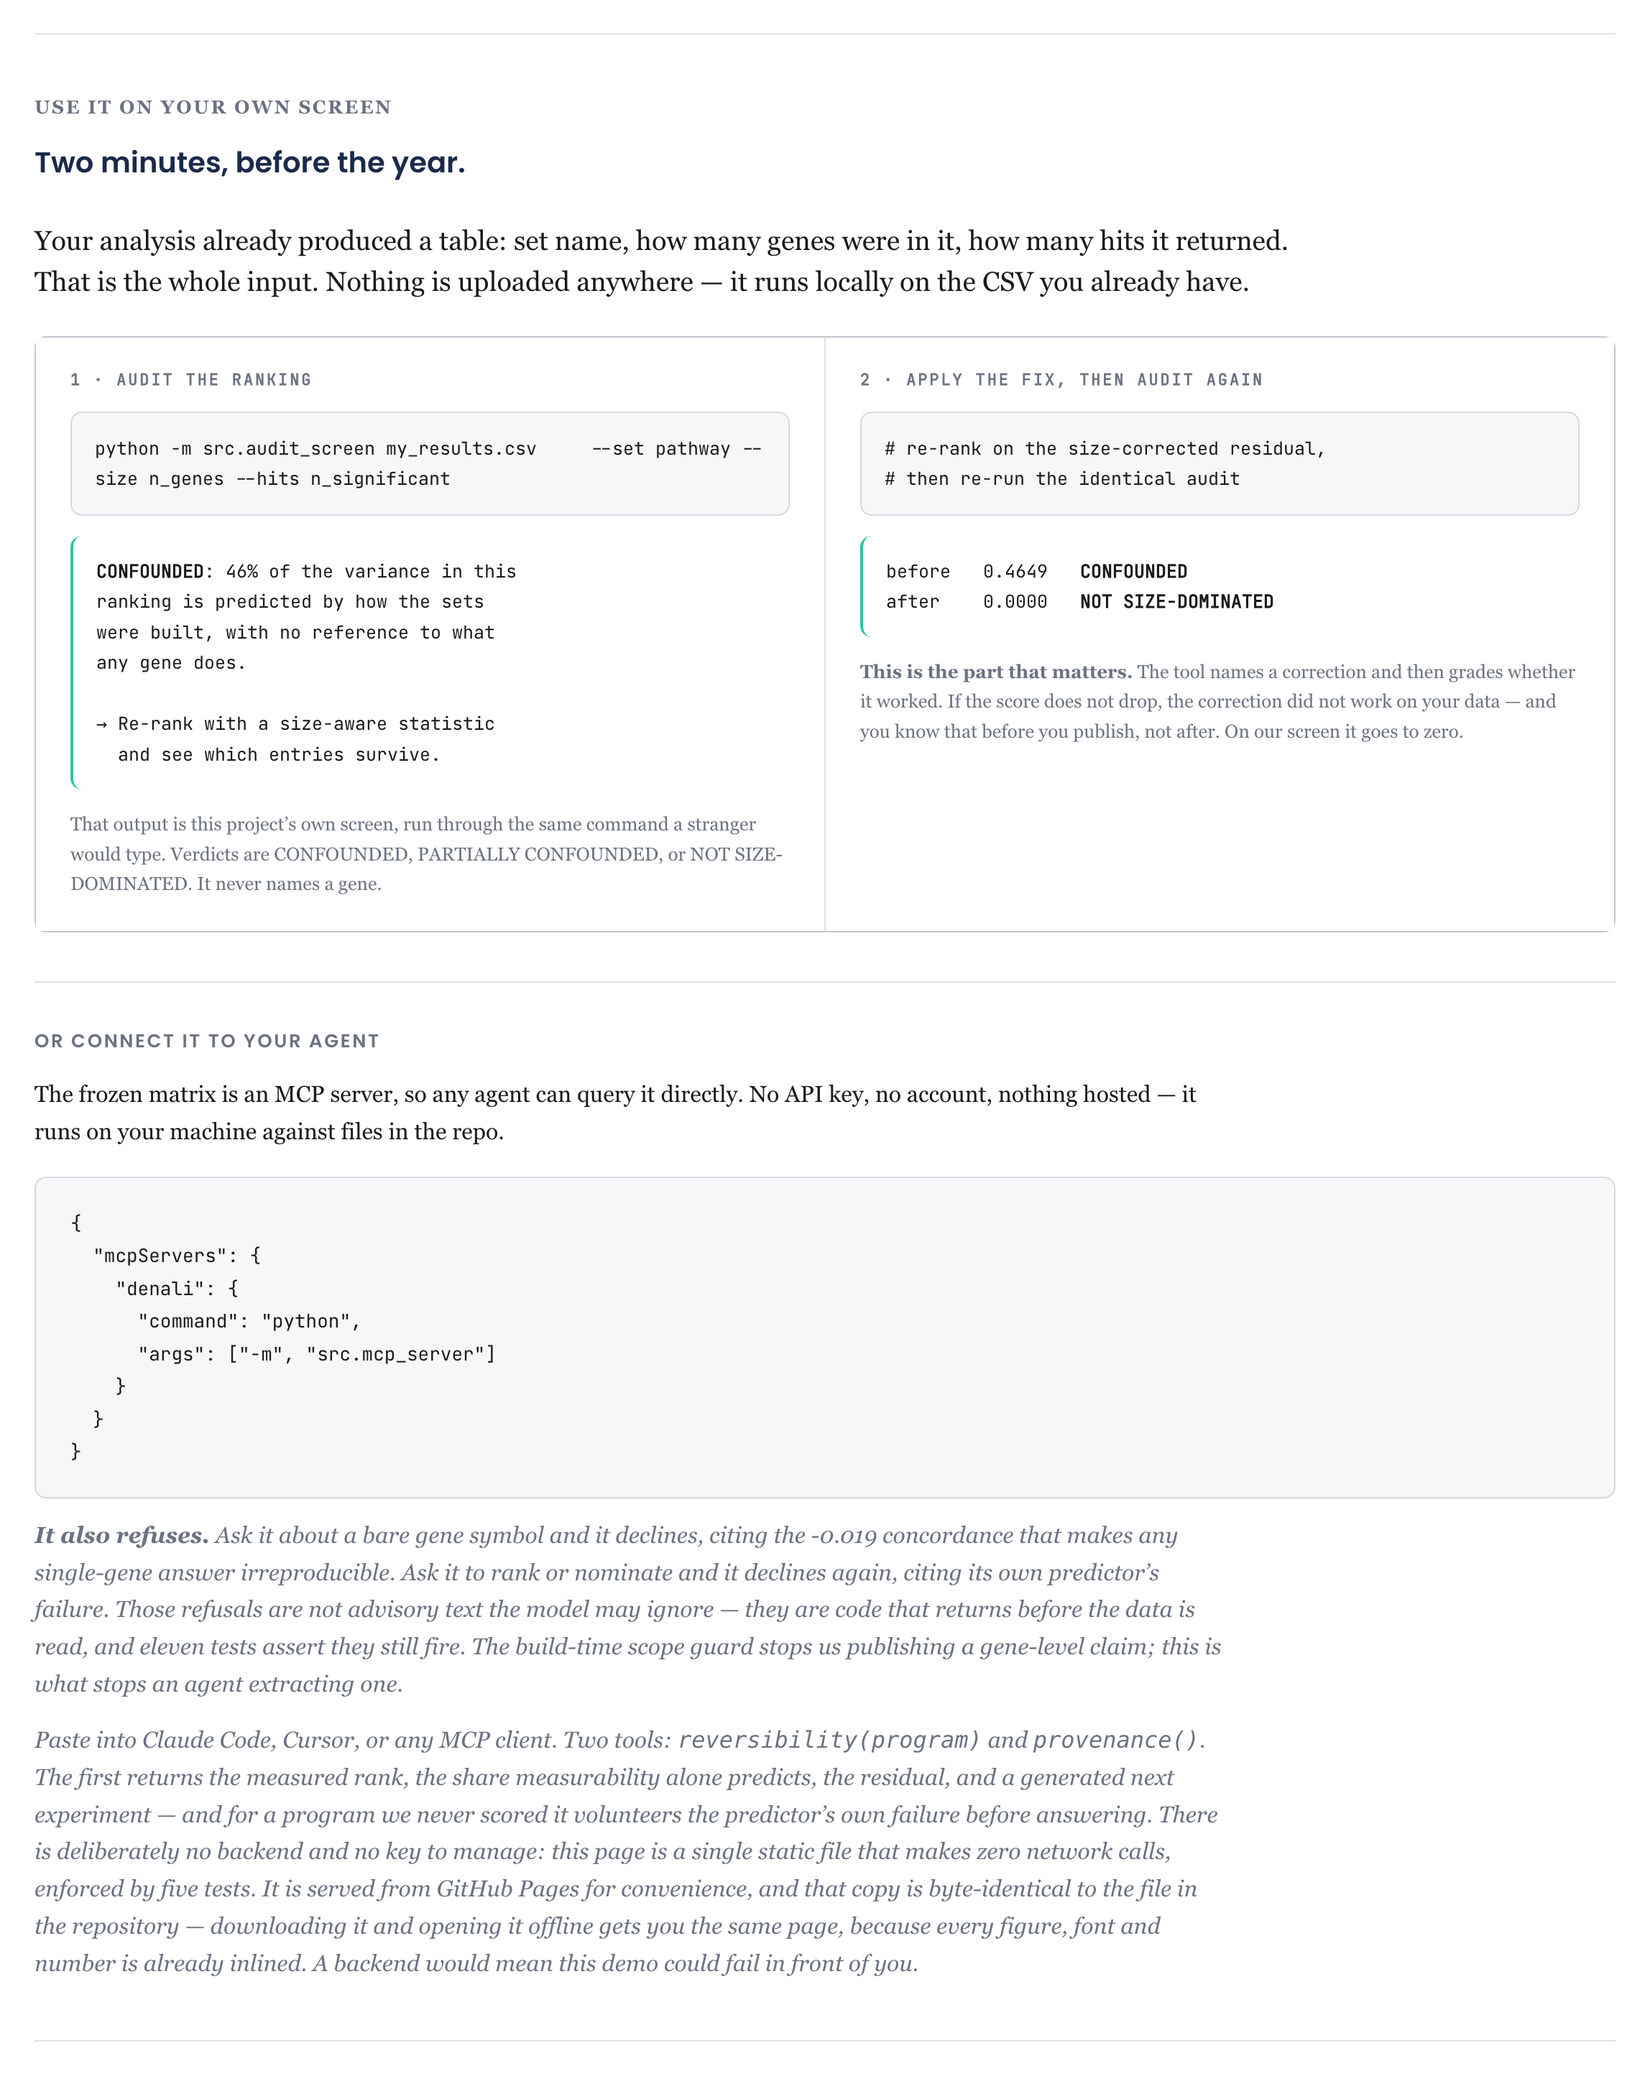
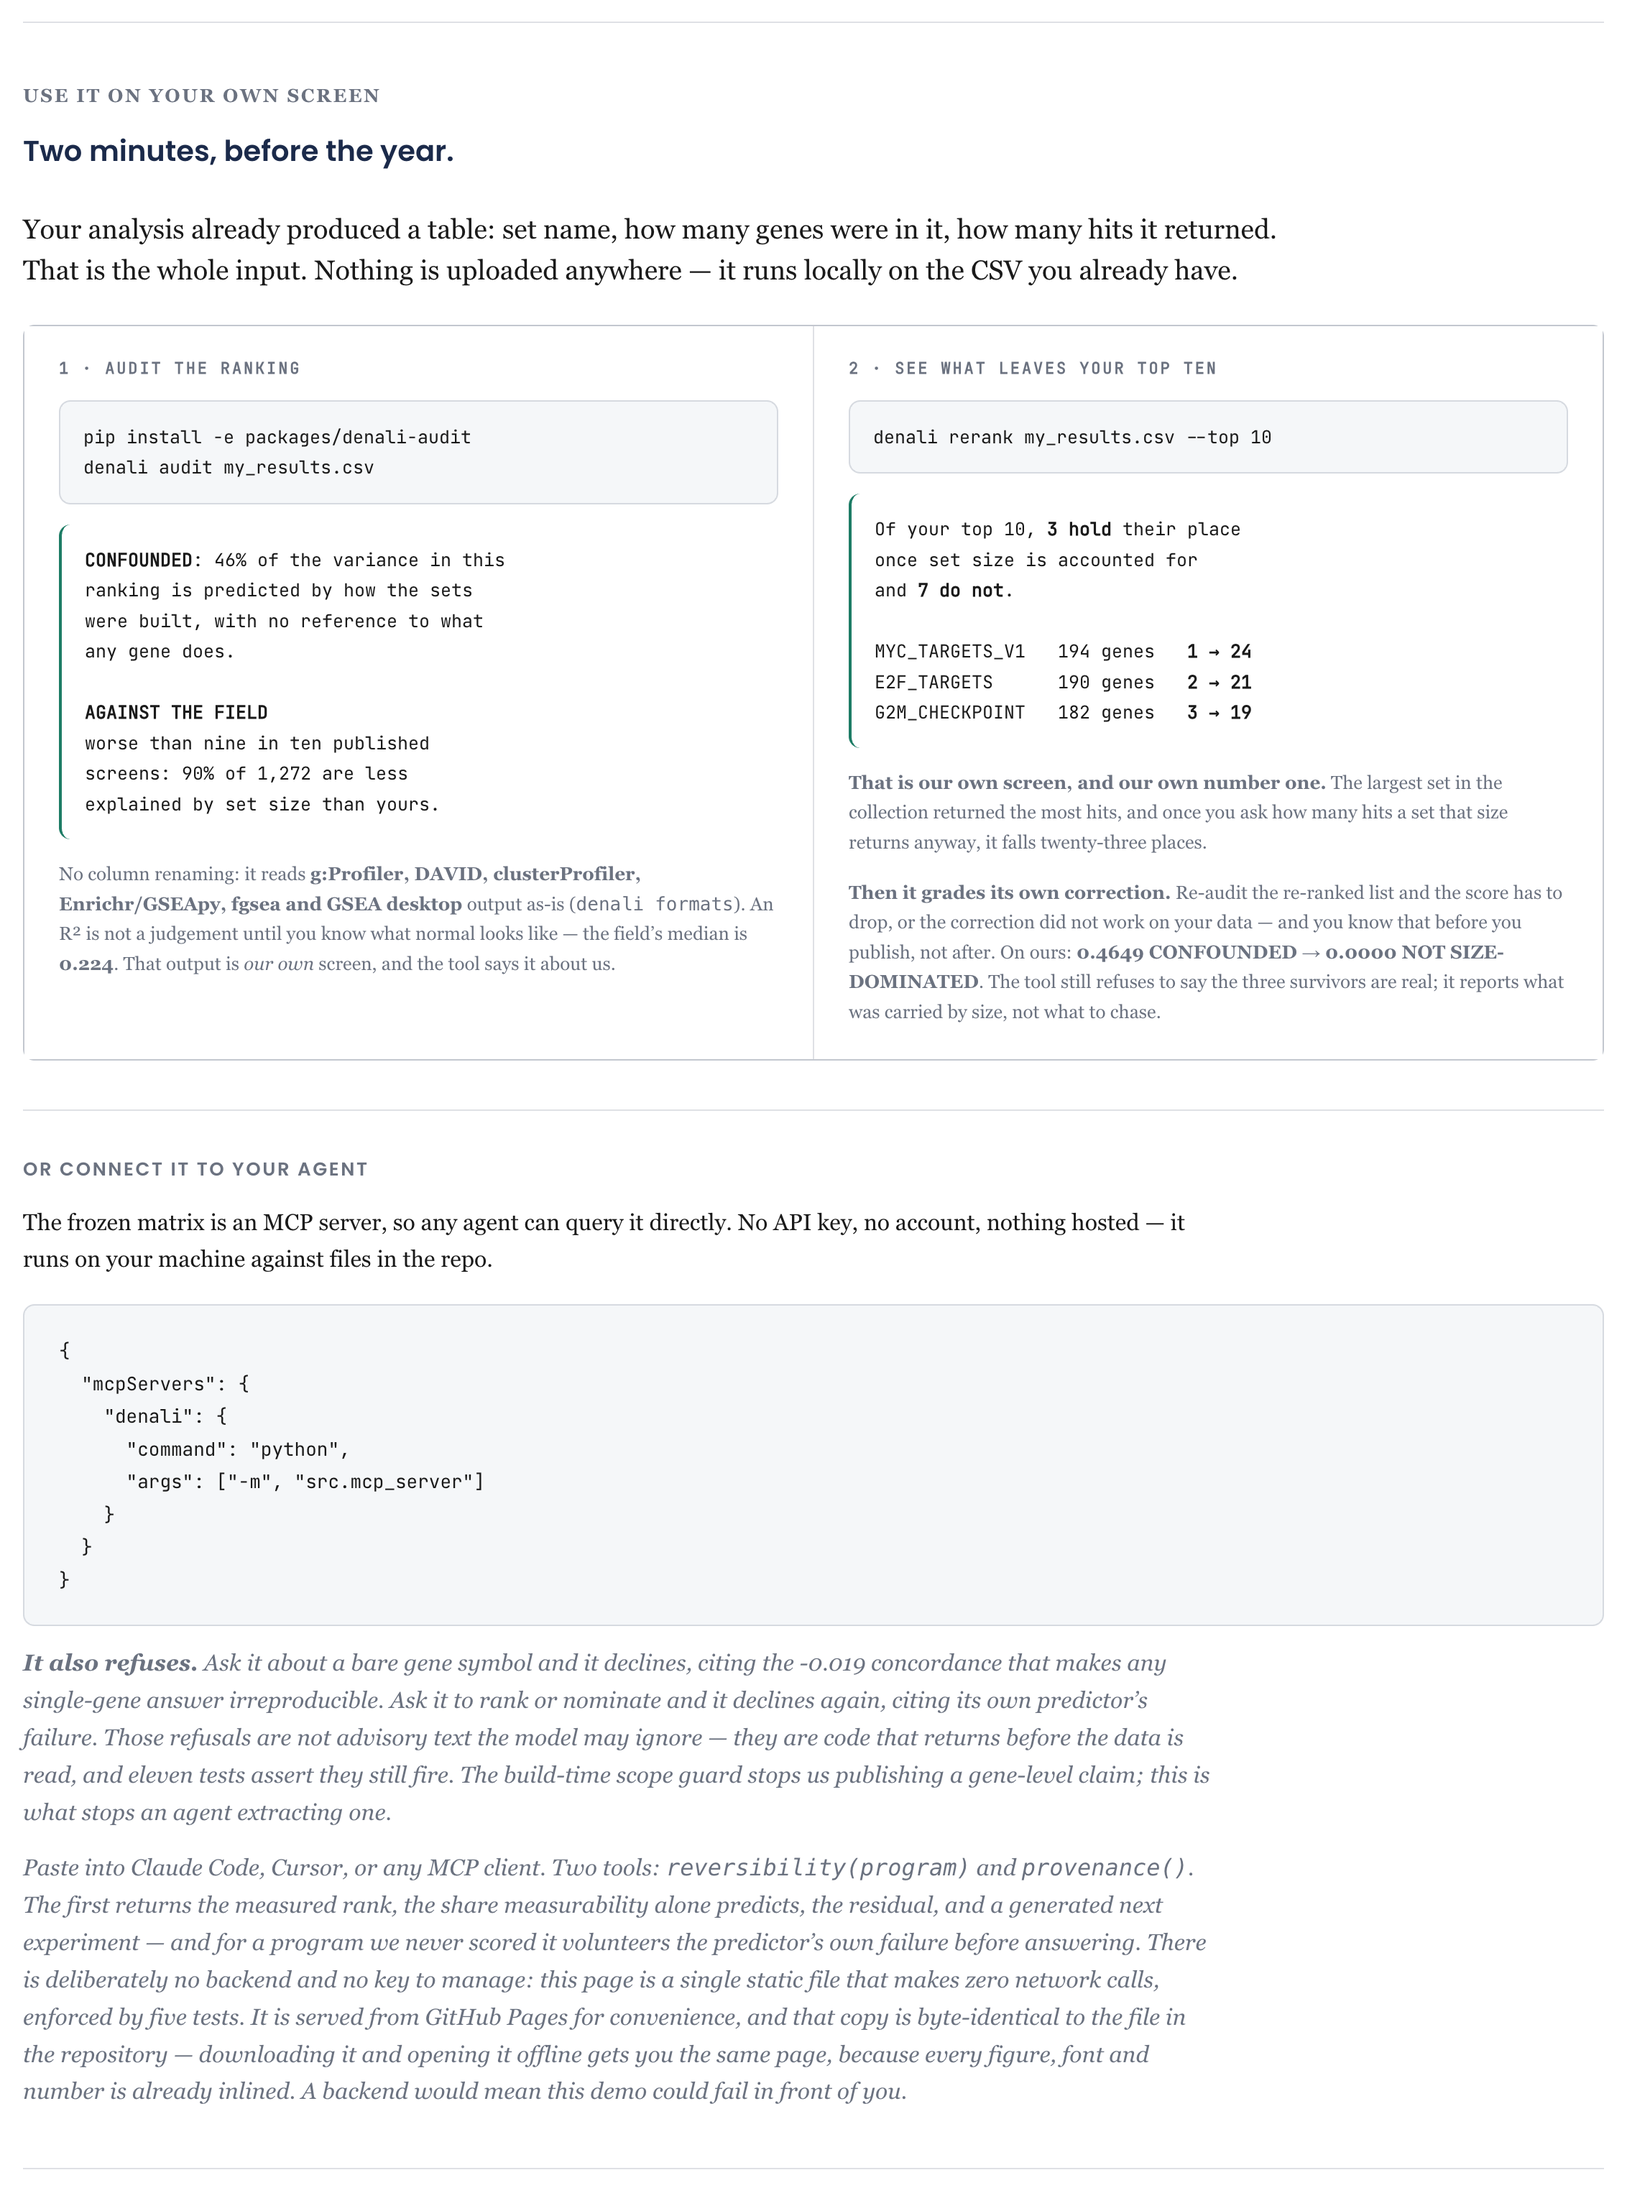
The anti-drift test never ran, and the screenshot showed the old command
Ran /ultrareview as a workflow over the coherence diff. 28 agents, 19 of 25
findings confirmed. Both blocking ones were mine, from tonight.

BLOCKING 1 -- I asserted a guard as a selling point without checking it runs.
The 0.4649 identity test that stops the tool and the paper drifting is gated on
DENALI_RESEARCH_REPO, an env var set nowhere: not locally, not in CI. It was the
one SKIPPED test in "12 passed, 1 skipped", and I put "or CI fails" in the
README, the mermaid edge label, the package README and the writeup. Four
surfaces advertising a check that had never executed.

It now finds the study by its own location -- the package is vendored inside the
repo, so the frozen data is three directories up and no configuration is needed
-- with the env var kept for standalone checkouts. 34 passed, 0 skipped. Proved
it fires: multiplying r2_size_alone by 0.99 in core.py fails the test.

That is the sixth instance of this failure mode here and the first where I
wrote the false claim myself while adding guards against other drift.

BLOCKING 2 -- docs/img/use-it.png was a picture of the pre-inversion page,
showing `python -m src.audit_screen --set/--size/--hits` thirty-seven lines
below the new `denali audit` block, with no percentile and no rerank. The
README's most prominent visual contradicted its own opening command. Re-shot
from a measured getBoundingClientRect, and page-full.png with it.

Also confirmed and fixed:
[…]

diff --git a/packages/denali-audit/tests/test_core.py b/packages/denali-audit/tests/test_core.py
@@ -18,10 +18,22 @@ from denali_audit.reference import N_SCREENS, percentile
 
 PUBLISHED_HEADLINE = 0.4649
 
-# Set DENALI_RESEARCH_REPO to a clone of github.com/alejandro-publius/denali to run
-# the identity test. Skipped rather than failed when absent, so the package stays
-# installable without a 100 MB checkout.
-RESEARCH = os.environ.get("DENALI_RESEARCH_REPO")
+# The identity test needs the study's frozen data. Two ways to find it, in order:
+#
+#   1. this file's own location -- the package is vendored INSIDE the research
+#      repo at packages/denali-audit, so when you are working in the repo the
+#      data is three directories up and no configuration is required.
+#   2. DENALI_RESEARCH_REPO, for a standalone checkout of the package.
+#
+# Path 1 exists because relying on the env var alone meant this test skipped
+# everywhere -- including CI -- while the README and the architecture diagram
+# both advertised it as the thing that stops the tool and the paper drifting
+# apart. A guard nobody runs cannot hold a claim up, and asserting that it does
+# is worse than not having it.
+_vendored = Path(__file__).resolve().parents[3]
+RESEARCH = os.environ.get("DENALI_RESEARCH_REPO") or (
+    str(_vendored) if (_vendored / "results" / "frozen" / "program_summary.csv").exists()
+    else None)
 FROZEN = Path(RESEARCH) / "results" / "frozen" / "program_summary.csv" if RESEARCH else None
 
 

diff --git a/tests/test_cross_surface.py b/tests/test_cross_surface.py
@@ -37,7 +37,16 @@ SURFACES = [
     "docs/CORPUS.md", "docs/ADVERSARIAL.md", "docs/MORNING_HANDOFF.md",
     "docs/LIMITATIONS.md", "docs/LOOP.md", "docs/OFFTARGET.md",
     "results/figures/CAPTIONS.md", "results/corpus_rerank/README.md",
+    # Added after both drifted unnoticed: SUBMISSION_IMPACTFORGE.md stated a
+    # stale cross-surface count and stale dependency floors, and the package
+    # README told readers to install from PyPI where nothing is published.
+    # A prose surface nobody registered is a prose surface nobody checks.
+    "docs/SUBMISSION_IMPACTFORGE.md", "packages/denali-audit/README.md",
 ]
+
+# Any .md a reader can reach that states a headline number should be in
+# SURFACES above. This catches the ones nobody remembered to add.
+_UNREGISTERED_HINT = ("docs", "packages")
 
 # label -> (context regex with ONE capture group, canonical value, equivalents)
 # The regex must anchor on words, so a surface stating a WRONG value is found

diff --git a/README.md b/README.md
@@ -28,7 +28,9 @@ screens: 90% of 1272 published CRISPR screens are less explained by set
 size than yours.
 ```
 
-An R² is not a judgement until you know what normal looks like. The field's median is **0.224**; that output is denali's own screen at **0.465**, and the tool says so about us.
+An R² is not a judgement until you know what normal looks like. The field's median is **0.224** and that output is denali's own screen at **0.465** — the tool says it about us.
+
+**One caveat we would rather state than have found.** Those two numbers are not computed the same way: the corpus median fits log size, the audit fits raw size. On a like-for-like raw predictor the field's median is **0.192**, which makes our screen look *more* unusual rather than less, so the comparison is not flattering us — but it is a comparison across transforms and the percentile is indicative rather than exact. `docs/CORPUS.md` carries the sensitivity; the tool's own output says the reference is indicative too.
 
 Then `denali rerank` applies the correction and shows you what leaves the top of your list. **On our own screen, three of the top ten hold and seven do not** — see [what the tool does to our own headline](#what-the-tool-does-to-our-own-result).
 
@@ -50,7 +52,7 @@ We scored all **50 MSigDB Hallmark gene programs** against **9,837 CRISPRi knock
 
 ![Running the audit on your own screen, and re-auditing after the fix](docs/img/use-it.png)
 
-*What a user does: audit the ranking they already have, apply the correction the tool names, re-run the identical audit and watch the score drop. Or connect the frozen matrix to their agent — no API key, no backend.*
+*What a user does: audit the ranking they already have and see where it sits against 1,272 published screens, then `denali rerank` to see what leaves the top ten. Or connect the frozen matrix to their agent — no API key, no backend.*
 
 ![The agent choosing what to read next and halting on its own](docs/img/agent-loop.png)
 
@@ -69,6 +71,10 @@ top of the list. Run on **our own screen**, the one this whole repository is
 about:
 
 ```bash
+# build the input from this repo's own frozen results, then rerank it
+python -c "import pandas as pd; d=pd.read_csv('results/frozen/program_summary.csv'); \
+  d[['program','n_present','n_hits_q05']].rename(columns={'program':'set','n_present':'size','n_hits_q05':'hits'}) \
+  .to_csv('our_screen.csv', index=False)"
 denali rerank our_screen.csv --top 10
 ```
 
@@ -88,8 +94,12 @@ denali rerank our_screen.csv --top 10
 
 **Our number one falls to twenty-fourth.** `MYC_TARGETS_V1` is the largest set
 in the collection at 194 measured members, it returned the most hits, and once
-you ask how many hits a set that size returns *anyway*, it is unremarkable. The
-three that hold are the three the ranking can actually justify.
+you ask how many hits a set that size returns *anyway*, it is unremarkable.
+
+**The three that hold are not thereby real.** They are the three this ranking
+is not obviously unable to justify, which is a weaker statement and the only one
+the data supports. The tool says the same thing in its own output and we are not
+going to say more than it does.
 
 Note what the tool refuses to do here. It does not tell you the three survivors
 are real, and it does not hand back a shorter list to go chase. Its own output
@@ -269,7 +279,7 @@ flowchart TB
 
 **`src/freeze_proposals.py` is drawn as the only writer of `proposals.json` because that turned out to matter.** The three generated proposals the page renders are produced by `src/next_experiment.py` and serialised once by that script. It went stale — the generator gained a falsification field and the artifact was never rewritten — and because nothing checked the artifact against its generator, `make all` on a clean clone silently rewrote it and made the byte-identical reproduction claim false while every other test stayed green. The edge back into `results/frozen/` now carries that check.
 
-**Two edges are dashed on purpose, and both are claims you can check.** Modal points *into* `results/frozen/` rather than out of it: `src/modal_sweep.py` re-runs the sweep across ten containers and reproduces all 50 programs identically, so it verifies the frozen result without being allowed to produce it — it is deliberately not a `make all` step, and a test asserts that. The VIF edge points *outward*, to a statistical result published in 2012: our two dominant features turn out to be the two terms of CAMERA's variance-inflation factor, which we recovered from data rather than fitted to.
+**The dashed edges are claims you can check, and there are now four of them.** Modal points *into* `results/frozen/` rather than out of it: `src/modal_sweep.py` re-runs the sweep across ten containers and reproduces all 50 programs identically, so it verifies the frozen result without being allowed to produce it — it is deliberately not a `make all` step, and a test asserts that. The VIF edge points *outward*, to a statistical result published in 2012: our two dominant features turn out to be the two terms of CAMERA's variance-inflation factor, which we recovered from data rather than fitted to.
 
 **The packaged tool is drawn downstream of the freeze, with one edge pointing back.** `packages/denali-audit` is what a stranger installs, and it is not a rewrite: `core.py` is the study's own maths vendored verbatim, `reference.py` carries the 1,272-screen corpus so an audit can say where a ranking sits rather than only what its R² is, and `denali rerank` applies the correction. The dashed edge back into `results/frozen/` is the claim that makes the whole arrangement honest — **a test runs the packaged `audit()` against the frozen research data and requires exactly `0.4649`**, the published headline. If the tool and the paper ever disagree, CI fails rather than the two quietly diverging and the README continuing to cite a number the shipped code no longer produces. That is the difference between a tool that came out of a study and a tool that merely resembles one.
 
@@ -520,6 +530,7 @@ The suite has caught, in order: a stat bug reporting 5 evidence sources instead 
 | `results/prior_work/` | Pre-event ILD evidence — the positive control returning 481–6,532 genes. Not reproducible here |
 | `results/discovery/` | Intermediate scoring outputs |
 | `audits/external/` | The audit run unchanged on seven **other people's** published screens — standardized inputs, provenance and rerun command per entry |
+| `packages/denali-audit/` | The packaged CLI a stranger installs. `core.py` is `src/`'s maths vendored verbatim; a test requires it to return 0.4649 on the frozen data. |
 | `src/` | Pipeline modules, run as `python -m src.<module>` |
 | `tests/` | Invariants over the frozen interface |
 | `docs/` | Report, limitations, method rules, origins, prior work, data dictionary, pre-registrations |

diff --git a/docs/SUBMISSION_IMPACTFORGE.md b/docs/SUBMISSION_IMPACTFORGE.md
@@ -73,7 +73,7 @@ Deliberately boring where it touches a number.
 | Package | `packages/denali-audit`, deps `numpy>=1.26, pandas>=2.1.1, scipy>=1.11` | Loose on purpose — the tool must install next to whatever a stranger already has. The *study* is pinned; the *tool* is portable. The floors are **tested**, not declared: the full suite runs green at exactly those versions, three majors below what the study pins. |
 | Distribution | Static page with every asset inlined; MCP server; Streamlit view | The page makes **zero network calls** and renders offline from one file. |
 | Compute | Modal for the 50-program sweep across 10 containers | Reproduces the frozen numbers rather than producing them — deliberately not a `make all` step, and a test asserts that. |
-| Verification | 384 invariants + 23 cross-surface checks, CI on every push | The suite counts itself; four surfaces state that count and all four fail the build on disagreement. |
+| Verification | The invariant suite + the cross-surface suite, CI on every push, plus the packaged tool's own tests | The suite **counts itself** and the README states that count in three places; all fail the build on disagreement. Exact totals deliberately not repeated here — a number restated in prose is a number that goes stale, which this file did. |
 
 ## What was hard
 

diff --git a/docs/SUBMISSION.md b/docs/SUBMISSION.md
@@ -240,7 +240,7 @@ the build if an "unused" claim stops being true.
 |---|---|
 | Results page (zero network calls) | https://alejandro-publius.github.io/denali/ |
 | Repository | https://github.com/alejandro-publius/denali |
-| Audit your own screen | `python -m src.audit_screen <your_table.csv>` |
+| Audit your own screen | `pip install -e packages/denali-audit` then `denali audit <your_table.csv>` |
 | Watch the agent choose and halt | `python -m src.next_experiment --demo` |
 | Falsify the loop claim in ten seconds | `grep -n 'HALLMARK_\|REACTOME_' src/next_experiment.py` |
 

diff --git a/packages/denali-audit/README.md b/packages/denali-audit/README.md
@@ -8,7 +8,8 @@ the way a raw crime count always ranks big cities as the most dangerous. This me
 how much of your ranking that explains, before you commit.
 
 ```bash
-pip install denali-audit
+# not on PyPI yet -- install from a clone of the repository
+pip install -e packages/denali-audit
 denali audit my_results.csv
 ```
 
